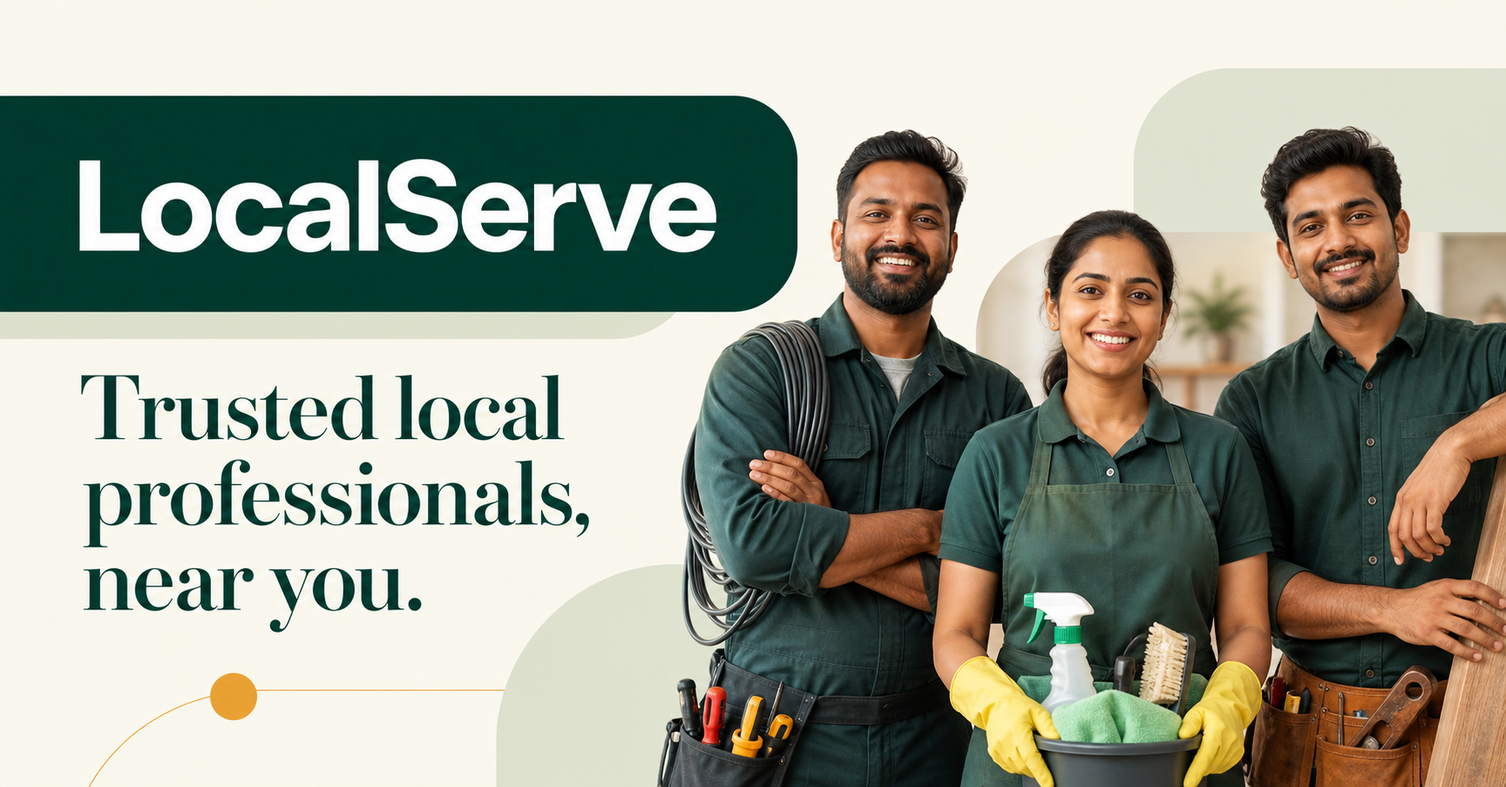
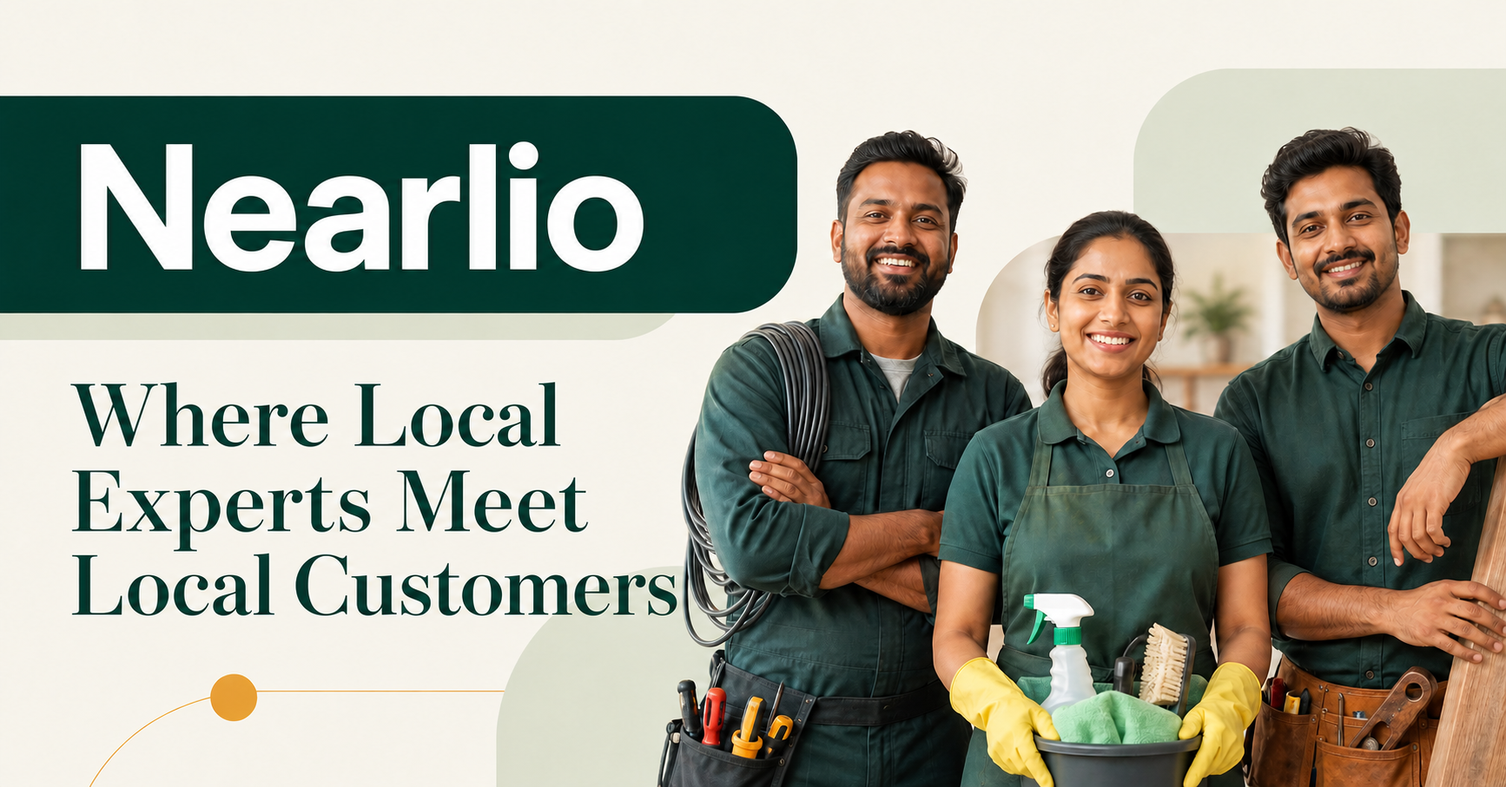
Rebrand LocalServe as Nearlio

diff --git a/app/localserve-app.tsx b/app/localserve-app.tsx
@@ -37,7 +37,7 @@ const categoryIcons:Record<string,string>={Plumber:"🔧",Electrician:"⚡",Carp
 const categories = [...serviceNames.map(name => [categoryIcons[name]||"🛠", name, "Browse service"]), ["⋯", "All services", "Explore categories"]];
 const featuredCategories = [...categories.slice(0,11), categories[categories.length-1]];
 
-export default function LocalServeApp() {
+export default function NearlioApp() {
   const [view, setView] = useState<View>("home");
   const [query, setQuery] = useState("");
   const [radius, setRadius] = useState(20);
@@ -108,7 +108,7 @@ export default function LocalServeApp() {
   return (
     <div className="app-shell">
       <header className="topbar">
-        <button className="brand" onClick={() => setView("home")} aria-label="LocalServe home"><span className="brand-mark">L</span><span>Local<span>Serve</span></span></button>
+        <button className="brand" onClick={() => setView("home")} aria-label="Nearlio home"><span className="brand-mark">N</span><span>Near<span>lio</span></span></button>
         <nav className="desktop-nav" aria-label="Main navigation">
           <button className={view === "home" ? "active" : ""} onClick={() => setView("home")}>Home</button>
           <button className={view === "search" ? "active" : ""} onClick={() => goSearch()}>Find services</button>
@@ -165,11 +165,11 @@ export default function LocalServeApp() {
         {view === "dashboard" && currentUser && <ProviderDashboard role={role} user={currentUser} onAction={notify} onRequest={openRequest} onSetup={()=>setModal("profile")} onView={()=>setModal("profile-view")} />}
       </main>
 
-      <footer><div className="footer-brand"><div className="brand"><span className="brand-mark">L</span><span>Local<span>Serve</span></span></div><p>Trusted local services, one tap away.</p><small className="powered-by">Powered by <b>Lumier Technologies</b></small></div><div><b>Customers</b><a>Find services</a><a>Post a request</a><a>Safety</a></div><div><b>Professionals</b><a>Join LocalServe</a><a>Plans & pricing</a><a>Provider help</a></div><div><b>Company</b><a>About</a><a>Contact</a><a>Privacy & terms</a></div><div className="footer-bottom">© 2026 LocalServe. Made for local communities. <span>Powered by Lumier Technologies · English · हिन्दी · മലയാളം</span></div></footer>
+      <footer><div className="footer-brand"><div className="brand"><span className="brand-mark">N</span><span>Near<span>lio</span></span></div><p>Where Local Experts Meet Local Customers.</p><small className="powered-by">Powered by <b>Lumier Technologies</b></small></div><div><b>Customers</b><a>Find services</a><a>Post a request</a><a>Safety</a></div><div><b>Professionals</b><a>Join Nearlio</a><a>Plans & pricing</a><a>Provider help</a></div><div><b>Company</b><a>About</a><a>Contact</a><a>Privacy & terms</a></div><div className="footer-bottom">© 2026 Nearlio. Where Local Experts Meet Local Customers. <span>Powered by Lumier Technologies · English · हिन्दी · മലയാളം</span></div></footer>
 
       <nav className="mobile-nav" aria-label="Mobile navigation">{[["⌂","Home","home"],["⌕","Search","search"],["＋","Requests","requests"],["✉","Messages","messages"],["◉","Profile","dashboard"]].map(([icon,label,id]) => <button className={view===id ? "active" : ""} onClick={() => (["requests","messages","dashboard"].includes(id) ? openProtected(id as View) : setView(id as View))} key={id}><span>{icon}</span>{label}</button>)}</nav>
       {selected && !modal && <ProviderDrawer provider={selected} saved={saved.includes(selected.id)} onClose={() => setSelected(null)} onBook={() => setModal("booking")} onSave={() => setSaved(s => s.includes(selected.id) ? s.filter(x=>x!==selected.id) : [...s,selected.id])} />}
-      {modal && <AppModal type={modal} provider={selected} user={currentUser} customerLocation={customerLocation} onLocationSaved={saveCustomerLocation} onClose={() => {setModal(null);setPostAuthAction(null)}} onAuthenticated={(user) => {setCurrentUser(user);setRole(user.role);notify(`Welcome, ${user.fullName.split(" ")[0]}!`);if(postAuthAction==="request"){setModal("request")}else{setModal(null);setView(postAuthAction||"dashboard")}setPostAuthAction(null)}} onProfileSaved={(user) => {setCurrentUser(user);setRole("provider");setModal(null);refreshProviders();notify("Profile submitted for LocalServe verification.");setView("dashboard")}} onSuccess={(msg) => {setModal(null); notify(msg); if(modal!=="auth")setView("requests")}} />}
+      {modal && <AppModal type={modal} provider={selected} user={currentUser} customerLocation={customerLocation} onLocationSaved={saveCustomerLocation} onClose={() => {setModal(null);setPostAuthAction(null)}} onAuthenticated={(user) => {setCurrentUser(user);setRole(user.role);notify(`Welcome, ${user.fullName.split(" ")[0]}!`);if(postAuthAction==="request"){setModal("request")}else{setModal(null);setView(postAuthAction||"dashboard")}setPostAuthAction(null)}} onProfileSaved={(user) => {setCurrentUser(user);setRole("provider");setModal(null);refreshProviders();notify("Profile submitted for Nearlio verification.");setView("dashboard")}} onSuccess={(msg) => {setModal(null); notify(msg); if(modal!=="auth")setView("requests")}} />}
       {toast && <div className="toast" role="status">✓ {toast}</div>}
     </div>
   );
@@ -196,7 +196,7 @@ function RequestsView({onPost}:{onPost:()=>void}) {
 
 
 
-function ProviderDrawer({provider:p,saved,onClose,onBook,onSave}:{provider:Provider;saved:boolean;onClose:()=>void;onBook:()=>void;onSave:()=>void}) { return <div className="overlay" onMouseDown={e=>{if(e.target===e.currentTarget)onClose()}}><aside className="provider-drawer"><button className="modal-close" onClick={onClose}>×</button><div className="drawer-cover"><img src={p.cover} alt={`${p.business} portfolio`}/></div><div className="drawer-content"><div className="profile-main"><div className="avatar large">{p.image}</div><div><h2>{p.business} <span className="verified">✓</span></h2><p>{p.name} · {p.service}</p><span className="status-pill green">AVAILABLE TODAY</span></div></div><div className="profile-stats"><div><b>★ {p.rating}</b><span>{p.reviews} reviews</span></div><div><b>{p.jobs}</b><span>Jobs done</span></div><div><b>{p.experience} yrs</b><span>Experience</span></div><div><b>{p.distance!==null?`${p.distance} km`:"Set location"}</b><span>Distance</span></div></div><h3>About</h3><p>{p.description} Serving homes and businesses across {p.locality}. Every job includes clear estimates, tidy workmanship and a service guarantee.</p><div className="tags"><span>English</span><span>हिन्दी</span><span>മലയാളം</span><span>Home visit</span><span>UPI accepted</span></div><h3>Popular services</h3><div className="service-price"><span><b>Inspection & diagnosis</b><small>30–45 minutes</small></span><b>₹{p.price}</b></div><div className="service-price"><span><b>Standard service visit</b><small>Materials charged separately</small></span><b>From ₹799</b></div><h3>Recent work</h3><div className="portfolio-row"><img src={p.cover} alt="Recent project"/><img src="https://images.unsplash.com/photo-1503387762-592deb58ef4e?auto=format&fit=crop&w=500&q=80" alt="Completed project"/></div><div className="drawer-actions"><button onClick={onSave}>{saved?"♥ Saved":"♡ Save"}</button>{p.whatsapp&&<a className="whatsapp-btn" href={whatsappUrl(p.whatsapp,`Hello ${p.name}, I found your ${p.service} profile on LocalServe.`)} target="_blank" rel="noreferrer">WhatsApp</a>}<button className="primary-btn" onClick={onBook}>Book service</button></div></div></aside></div> }
+function ProviderDrawer({provider:p,saved,onClose,onBook,onSave}:{provider:Provider;saved:boolean;onClose:()=>void;onBook:()=>void;onSave:()=>void}) { return <div className="overlay" onMouseDown={e=>{if(e.target===e.currentTarget)onClose()}}><aside className="provider-drawer"><button className="modal-close" onClick={onClose}>×</button><div className="drawer-cover"><img src={p.cover} alt={`${p.business} portfolio`}/></div><div className="drawer-content"><div className="profile-main"><div className="avatar large">{p.image}</div><div><h2>{p.business} <span className="verified">✓</span></h2><p>{p.name} · {p.service}</p><span className="status-pill green">AVAILABLE TODAY</span></div></div><div className="profile-stats"><div><b>★ {p.rating}</b><span>{p.reviews} reviews</span></div><div><b>{p.jobs}</b><span>Jobs done</span></div><div><b>{p.experience} yrs</b><span>Experience</span></div><div><b>{p.distance!==null?`${p.distance} km`:"Set location"}</b><span>Distance</span></div></div><h3>About</h3><p>{p.description} Serving homes and businesses across {p.locality}. Every job includes clear estimates, tidy workmanship and a service guarantee.</p><div className="tags"><span>English</span><span>हिन्दी</span><span>മലയാളം</span><span>Home visit</span><span>UPI accepted</span></div><h3>Popular services</h3><div className="service-price"><span><b>Inspection & diagnosis</b><small>30–45 minutes</small></span><b>₹{p.price}</b></div><div className="service-price"><span><b>Standard service visit</b><small>Materials charged separately</small></span><b>From ₹799</b></div><h3>Recent work</h3><div className="portfolio-row"><img src={p.cover} alt="Recent project"/><img src="https://images.unsplash.com/photo-1503387762-592deb58ef4e?auto=format&fit=crop&w=500&q=80" alt="Completed project"/></div><div className="drawer-actions"><button onClick={onSave}>{saved?"♥ Saved":"♡ Save"}</button>{p.whatsapp&&<a className="whatsapp-btn" href={whatsappUrl(p.whatsapp,`Hello ${p.name}, I found your ${p.service} profile on Nearlio.`)} target="_blank" rel="noreferrer">WhatsApp</a>}<button className="primary-btn" onClick={onBook}>Book service</button></div></div></aside></div> }
 
 function AppModal({type,provider,user,customerLocation,onLocationSaved,onClose,onSuccess,onAuthenticated,onProfileSaved}:{type:string;provider:Provider|null;user:SessionUser|null;customerLocation:MapLocation|null;onLocationSaved:(location:MapLocation)=>void;onClose:()=>void;onSuccess:(m:string)=>void;onAuthenticated:(u:SessionUser)=>void;onProfileSaved:(u:SessionUser)=>void}) {
   const [step,setStep]=useState(1);
@@ -232,7 +232,7 @@ function AuthForm({onAuthenticated}:{onAuthenticated:(user:SessionUser)=>void}) 
     } catch (problem) { setError(problem instanceof Error?problem.message:"Unable to continue"); }
     finally { setBusy(false); }
   }
-  return <form onSubmit={submitAuth} className="auth-form"><span className="kicker">WELCOME TO LOCALSERVE</span><h2>{mode==="login"?"Sign in to your account":"Create your LocalServe account"}</h2><p className="muted">{mode==="login"?"Manage bookings, quotes and messages securely.":"Join as a customer or start receiving nearby service enquiries."}</p><div className="auth-tabs"><button type="button" className={mode==="login"?"active":""} onClick={()=>{setMode("login");setError("")}}>Sign in</button><button type="button" className={mode==="register"?"active":""} onClick={()=>{setMode("register");setError("")}}>Create account</button></div>{mode==="register"&&<><label>Full name<input name="fullName" required minLength={2} autoComplete="name" placeholder="Your full name"/></label><div className="form-row"><label>Email address<input name="email" required type="email" autoComplete="email" placeholder="you@example.com"/></label><label>Mobile number<input name="phone" required type="tel" pattern="[0-9 +()-]{10,18}" autoComplete="tel" placeholder="10-digit number"/></label></div><label>I want to join as<select name="role" defaultValue="customer"><option value="customer">Customer — book services</option><option value="provider">Service professional — receive work</option></select></label></>}{mode==="login"&&<label>Email or mobile number<input name="identifier" required autoComplete="username" placeholder="Email or mobile number"/></label>}<label>Password<input name="password" required type="password" minLength={8} autoComplete={mode==="login"?"current-password":"new-password"} placeholder="At least 8 characters"/></label>{mode==="register"&&<p className="password-hint">Use uppercase, lowercase and at least one number.</p>}{error&&<div className="auth-error" role="alert">{error}</div>}<button type="submit" className="primary-btn wide" disabled={busy}>{busy?"Please wait…":mode==="login"?"Sign in securely":"Create account"}</button><p className="legal">By continuing, you agree to our Terms and Privacy Policy. Your password is securely hashed and never stored as plain text.</p></form>
+  return <form onSubmit={submitAuth} className="auth-form"><span className="kicker">WELCOME TO NEARLIO</span><h2>{mode==="login"?"Sign in to your account":"Create your Nearlio account"}</h2><p className="muted">{mode==="login"?"Manage bookings, quotes and messages securely.":"Join as a customer or start receiving nearby service enquiries."}</p><div className="auth-tabs"><button type="button" className={mode==="login"?"active":""} onClick={()=>{setMode("login");setError("")}}>Sign in</button><button type="button" className={mode==="register"?"active":""} onClick={()=>{setMode("register");setError("")}}>Create account</button></div>{mode==="register"&&<><label>Full name<input name="fullName" required minLength={2} autoComplete="name" placeholder="Your full name"/></label><div className="form-row"><label>Email address<input name="email" required type="email" autoComplete="email" placeholder="you@example.com"/></label><label>Mobile number<input name="phone" required type="tel" pattern="[0-9 +()-]{10,18}" autoComplete="tel" placeholder="10-digit number"/></label></div><label>I want to join as<select name="role" defaultValue="customer"><option value="customer">Customer — book services</option><option value="provider">Service professional — receive work</option></select></label></>}{mode==="login"&&<label>Email or mobile number<input name="identifier" required autoComplete="username" placeholder="Email or mobile number"/></label>}<label>Password<input name="password" required type="password" minLength={8} autoComplete={mode==="login"?"current-password":"new-password"} placeholder="At least 8 characters"/></label>{mode==="register"&&<p className="password-hint">Use uppercase, lowercase and at least one number.</p>}{error&&<div className="auth-error" role="alert">{error}</div>}<button type="submit" className="primary-btn wide" disabled={busy}>{busy?"Please wait…":mode==="login"?"Sign in securely":"Create account"}</button><p className="legal">By continuing, you agree to our Terms and Privacy Policy. Your password is securely hashed and never stored as plain text.</p></form>
 }
 
 function CleanMessagesView({onFind}:{onFind:()=>void}) {
@@ -249,7 +249,7 @@ function CleanDashboard({role,user,onAction,onRequest}:{role:SessionUser["role"]
   const description = role === "provider"
     ? "New enquiries and confirmed jobs will appear here."
     : role === "admin"
-      ? "Platform activity will appear here as customers and professionals begin using LocalServe."
+      ? "Platform activity will appear here as customers and professionals begin using Nearlio."
       : "Your service requests, quotations and bookings will appear here.";
   const prompt = role === "provider"
     ? ["Complete your professional profile","Add your services, coverage area and availability to start receiving enquiries."]
@@ -262,7 +262,7 @@ function CleanDashboard({role,user,onAction,onRequest}:{role:SessionUser["role"]
 function ProviderEnquiryCard({item,onReplied}:{item:ServiceRequest;onReplied:(id:string)=>void}) {
   const [message,setMessage]=useState("");const [busy,setBusy]=useState(false);const [error,setError]=useState("");const [sent,setSent]=useState(false);
   async function reply(event:FormEvent<HTMLFormElement>){event.preventDefault();setBusy(true);setError("");try{const response=await fetch(`/api/provider/requests/${item._id}/respond`,{method:"POST",headers:{"content-type":"application/json"},credentials:"include",body:JSON.stringify({message})});const result=await response.json();if(!response.ok)throw new Error(result.error||"Unable to send reply");setMessage("");setSent(true);onReplied(item._id)}catch(problem){setError(problem instanceof Error?problem.message:"Unable to send reply")}finally{setBusy(false)}}
-  return <article className="provider-enquiry-card"><div><span className={`status-pill ${item.urgency==="Emergency"?"red":"amber"}`}>{item.urgency||"Flexible"}</span><h3>{item.service} request</h3><p>{item.description}</p></div><dl><div><dt>Customer</dt><dd>{item.customerName||"LocalServe customer"}</dd></div><div><dt>Location</dt><dd>{item.address}</dd></div><div><dt>Preferred</dt><dd>{item.preferredDate} · {item.preferredTime}</dd></div><div><dt>Request</dt><dd>{item.requestNumber}</dd></div></dl><form className="provider-reply-form" onSubmit={reply}><label>Reply to customer<textarea value={message} onChange={event=>setMessage(event.target.value)} minLength={3} required placeholder="Introduce yourself, confirm availability, or share an estimate…"/></label>{error&&<div className="auth-error">{error}</div>}{sent&&<div className="reply-sent">✓ Reply sent and saved</div>}<div><button className="primary-btn" disabled={busy}>{busy?"Sending…":"Send reply"}</button>{item.whatsappNumber&&<a className="whatsapp-btn" href={whatsappUrl(item.whatsappNumber,`Hello ${item.customerName||"there"}, I am responding to your ${item.service} request ${item.requestNumber} on LocalServe.`)} target="_blank" rel="noreferrer">WhatsApp customer</a>}</div></form></article>;
+  return <article className="provider-enquiry-card"><div><span className={`status-pill ${item.urgency==="Emergency"?"red":"amber"}`}>{item.urgency||"Flexible"}</span><h3>{item.service} request</h3><p>{item.description}</p></div><dl><div><dt>Customer</dt><dd>{item.customerName||"Nearlio customer"}</dd></div><div><dt>Location</dt><dd>{item.address}</dd></div><div><dt>Preferred</dt><dd>{item.preferredDate} · {item.preferredTime}</dd></div><div><dt>Request</dt><dd>{item.requestNumber}</dd></div></dl><form className="provider-reply-form" onSubmit={reply}><label>Reply to customer<textarea value={message} onChange={event=>setMessage(event.target.value)} minLength={3} required placeholder="Introduce yourself, confirm availability, or share an estimate…"/></label>{error&&<div className="auth-error">{error}</div>}{sent&&<div className="reply-sent">✓ Reply sent and saved</div>}<div><button className="primary-btn" disabled={busy}>{busy?"Sending…":"Send reply"}</button>{item.whatsappNumber&&<a className="whatsapp-btn" href={whatsappUrl(item.whatsappNumber,`Hello ${item.customerName||"there"}, I am responding to your ${item.service} request ${item.requestNumber} on Nearlio.`)} target="_blank" rel="noreferrer">WhatsApp customer</a>}</div></form></article>;
 }
 
 function ProviderDashboard({role,user,onAction,onRequest,onSetup,onView}:{role:SessionUser["role"];user:SessionUser;onAction:(s:string)=>void;onRequest:()=>void;onSetup:()=>void;onView:()=>void}) {
@@ -311,7 +311,7 @@ function ProviderProfileForm({user,onSaved}:{user:SessionUser;onSaved:(user:Sess
     finally { setBusy(false); }
   }
   if(loading) return <div className="profile-loading">Loading your profile…</div>;
-  return <form className="provider-profile-form" onSubmit={save}><span className="kicker">PROFESSIONAL PROFILE</span><h2>{profile?._id?"Update your profile":"Set up your profile"}</h2><p className="muted">Your profile and identity documents are reviewed by LocalServe before customers can see you.</p>{profile?.verificationStatus&&<div className={`verification-banner ${profile.verificationStatus}`}><b>{profile.verificationStatus==="approved"?"✓ Verified":profile.verificationStatus==="rejected"?"Changes required":"Verification pending"}</b><span>{profile.verificationStatus==="rejected"?(profile.rejectionReason||"Update the requested details and resubmit."):profile.verificationStatus==="approved"?"Your public profile is active.":"A LocalServe admin will review your submission."}</span></div>}<label>Your name<input value={user.fullName} disabled/></label><label>Business or professional name<input name="businessName" required minLength={2} maxLength={100} defaultValue={profile?.businessName||""} placeholder="Example: Jiji Electrical Services"/></label><div className="form-row"><label>Main service<select name="service" required defaultValue={profile?.service||""}><option value="" disabled>Select service</option>{categories.slice(0,-1).map(item=><option key={item[1]} value={item[1]}>{item[1]}</option>)}</select></label><label>Years of experience<input name="experienceYears" required type="number" min="0" max="60" defaultValue={profile?.experienceYears??0}/></label></div><div className="form-row"><label>Starting price (₹)<input name="startingPrice" required type="number" min="0" max="1000000" defaultValue={profile?.startingPrice??299}/></label><label>Phone number<input name="phone" required type="tel" minLength={10} maxLength={24} defaultValue={profile?.phone||""} placeholder="Contact number"/></label></div><label>Service area<input name="locality" required minLength={2} maxLength={100} defaultValue={profile?.locality||"Kochi, Kerala"} placeholder="Area, city"/></label><div className="profile-location"><div className="profile-location-head"><b>Service location on map</b><span>Customers only see the distance, not your exact coordinates.</span></div><LocationPicker value={serviceLocation} onChange={setServiceLocation}/><input type="hidden" name="latitude" value={serviceLocation?.latitude??""}/><input type="hidden" name="longitude" value={serviceLocation?.longitude??""}/>{!serviceLocation&&<small className="location-required">Use mobile location or choose a point on the map.</small>}</div><label>About your services<textarea name="description" required minLength={30} maxLength={800} defaultValue={profile?.description||""} placeholder="Describe your skills, typical jobs and what customers can expect."/></label><div className="identity-upload-grid"><label>Profile photo {profile?.profilePhotoId&&<small>Current photo saved</small>}<input name="profilePhoto" type="file" accept="image/jpeg,image/png,image/webp" required={!profile?.profilePhotoId}/><em>Clear face photo · JPG, PNG or WebP · max 4 MB</em></label><label>ID card — front {profile?.idCardFrontId&&<small>Current ID saved</small>}<input name="idCardFront" type="file" accept="image/jpeg,image/png,image/webp" required={!profile?.idCardFrontId}/><em>Government-issued identity card · max 4 MB</em></label><label>ID card — back (optional) {profile?.idCardBackId&&<small>Current image saved</small>}<input name="idCardBack" type="file" accept="image/jpeg,image/png,image/webp"/><em>Upload if your ID contains details on both sides</em></label></div><div className="privacy-note"><b>🔒 Private identity verification</b><span>ID images are never shown publicly. Only authorised LocalServe administrators can review them.</span></div><div className="profile-checks"><label><input name="available" type="checkbox" defaultChecked={profile?.available??true}/> Available for new work</label><label><input name="emergency" type="checkbox" defaultChecked={profile?.emergency??false}/> Emergency service offered</label></div>{error&&<div className="auth-error" role="alert">{error}</div>}<button className="primary-btn wide" type="submit" disabled={busy}>{busy?"Submitting…":profile?._id?"Save and resubmit for verification":"Submit for verification"}</button></form>;
+  return <form className="provider-profile-form" onSubmit={save}><span className="kicker">PROFESSIONAL PROFILE</span><h2>{profile?._id?"Update your profile":"Set up your profile"}</h2><p className="muted">Your profile and identity documents are reviewed by Nearlio before customers can see you.</p>{profile?.verificationStatus&&<div className={`verification-banner ${profile.verificationStatus}`}><b>{profile.verificationStatus==="approved"?"✓ Verified":profile.verificationStatus==="rejected"?"Changes required":"Verification pending"}</b><span>{profile.verificationStatus==="rejected"?(profile.rejectionReason||"Update the requested details and resubmit."):profile.verificationStatus==="approved"?"Your public profile is active.":"A Nearlio admin will review your submission."}</span></div>}<label>Your name<input value={user.fullName} disabled/></label><label>Business or professional name<input name="businessName" required minLength={2} maxLength={100} defaultValue={profile?.businessName||""} placeholder="Example: Jiji Electrical Services"/></label><div className="form-row"><label>Main service<select name="service" required defaultValue={profile?.service||""}><option value="" disabled>Select service</option>{categories.slice(0,-1).map(item=><option key={item[1]} value={item[1]}>{item[1]}</option>)}</select></label><label>Years of experience<input name="experienceYears" required type="number" min="0" max="60" defaultValue={profile?.experienceYears??0}/></label></div><div className="form-row"><label>Starting price (₹)<input name="startingPrice" required type="number" min="0" max="1000000" defaultValue={profile?.startingPrice??299}/></label><label>Phone number<input name="phone" required type="tel" minLength={10} maxLength={24} defaultValue={profile?.phone||""} placeholder="Contact number"/></label></div><label>Service area<input name="locality" required minLength={2} maxLength={100} defaultValue={profile?.locality||"Kochi, Kerala"} placeholder="Area, city"/></label><div className="profile-location"><div className="profile-location-head"><b>Service location on map</b><span>Customers only see the distance, not your exact coordinates.</span></div><LocationPicker value={serviceLocation} onChange={setServiceLocation}/><input type="hidden" name="latitude" value={serviceLocation?.latitude??""}/><input type="hidden" name="longitude" value={serviceLocation?.longitude??""}/>{!serviceLocation&&<small className="location-required">Use mobile location or choose a point on the map.</small>}</div><label>About your services<textarea name="description" required minLength={30} maxLength={800} defaultValue={profile?.description||""} placeholder="Describe your skills, typical jobs and what customers can expect."/></label><div className="identity-upload-grid"><label>Profile photo {profile?.profilePhotoId&&<small>Current photo saved</small>}<input name="profilePhoto" type="file" accept="image/jpeg,image/png,image/webp" required={!profile?.profilePhotoId}/><em>Clear face photo · JPG, PNG or WebP · max 4 MB</em></label><label>ID card — front {profile?.idCardFrontId&&<small>Current ID saved</small>}<input name="idCardFront" type="file" accept="image/jpeg,image/png,image/webp" required={!profile?.idCardFrontId}/><em>Government-issued identity card · max 4 MB</em></label><label>ID card — back (optional) {profile?.idCardBackId&&<small>Current image saved</small>}<input name="idCardBack" type="file" accept="image/jpeg,image/png,image/webp"/><em>Upload if your ID contains details on both sides</em></label></div><div className="privacy-note"><b>🔒 Private identity verification</b><span>ID images are never shown publicly. Only authorised Nearlio administrators can review them.</span></div><div className="profile-checks"><label><input name="available" type="checkbox" defaultChecked={profile?.available??true}/> Available for new work</label><label><input name="emergency" type="checkbox" defaultChecked={profile?.emergency??false}/> Emergency service offered</label></div>{error&&<div className="auth-error" role="alert">{error}</div>}<button className="primary-btn wide" type="submit" disabled={busy}>{busy?"Submitting…":profile?._id?"Save and resubmit for verification":"Submit for verification"}</button></form>;
 }
 
 function CustomerLocationForm({initial,onSaved}:{initial:MapLocation|null;onSaved:(location:MapLocation)=>void}) {

diff --git a/app/admin/admin-portal.tsx b/app/admin/admin-portal.tsx
@@ -20,7 +20,7 @@ export default function AdminPortal() {
   const visible=useMemo(()=>filter==="all"?submissions:submissions.filter(item=>(item.verificationStatus||item.status)===filter),[submissions,filter]);
   const counts={pending:submissions.filter(x=>(x.verificationStatus||x.status)==="pending").length,approved:submissions.filter(x=>x.verificationStatus==="approved").length,rejected:submissions.filter(x=>x.verificationStatus==="rejected").length};
 
-  if(!admin)return <main className="admin-login-page"><section className="admin-login-card"><div className="admin-brand"><span>L</span><div><b>LocalServe</b><small>ADMINISTRATION</small></div></div><span className="kicker">RESTRICTED ACCESS</span><h1>Admin sign in</h1><p>Review provider identity documents and control who is published on LocalServe.</p><form onSubmit={login}><label>Admin email<input name="email" type="email" required autoComplete="username"/></label><label>Password<input name="password" type="password" required autoComplete="current-password"/></label>{error&&<div className="auth-error">{error}</div>}<button className="primary-btn wide" disabled={busy==="login"}>{busy?"Signing in…":"Sign in to admin portal"}</button></form><a href="/">← Return to LocalServe</a></section></main>;
+  if(!admin)return <main className="admin-login-page"><section className="admin-login-card"><div className="admin-brand"><span>N</span><div><b>Nearlio</b><small>ADMINISTRATION</small></div></div><span className="kicker">RESTRICTED ACCESS</span><h1>Admin sign in</h1><p>Review provider identity documents and control who is published on Nearlio.</p><form onSubmit={login}><label>Admin email<input name="email" type="email" required autoComplete="username"/></label><label>Password<input name="password" type="password" required autoComplete="current-password"/></label>{error&&<div className="auth-error">{error}</div>}<button className="primary-btn wide" disabled={busy==="login"}>{busy?"Signing in…":"Sign in to admin portal"}</button></form><a href="/">← Return to Nearlio</a></section></main>;
 
-  return <div className="admin-shell"><header className="admin-header"><div className="admin-brand"><span>L</span><div><b>LocalServe</b><small>ADMINISTRATION</small></div></div><div><span>{admin.email}</span><button onClick={logout}>Sign out</button></div></header><main className="admin-main"><div className="admin-title"><div><span className="kicker">TRUST & SAFETY</span><h1>Provider verification</h1><p>Approve only when the profile photo, identity card and account details match.</p></div><button onClick={loadSubmissions}>↻ Refresh</button></div><section className="admin-stats"><button className={filter==="pending"?"active":""} onClick={()=>setFilter("pending")}><b>{counts.pending}</b><span>Pending review</span></button><button className={filter==="approved"?"active":""} onClick={()=>setFilter("approved")}><b>{counts.approved}</b><span>Approved</span></button><button className={filter==="rejected"?"active":""} onClick={()=>setFilter("rejected")}><b>{counts.rejected}</b><span>Rejected</span></button><button className={filter==="all"?"active":""} onClick={()=>setFilter("all")}><b>{submissions.length}</b><span>All submissions</span></button></section>{error&&<div className="admin-error">{error}</div>}{loading?<div className="admin-empty">Loading provider submissions…</div>:visible.length===0?<div className="admin-empty"><b>No {filter==="all"?"provider":filter} submissions</b><span>New profile verification requests will appear here.</span></div>:<div className="admin-review-list">{visible.map(item=><article className="admin-review-card" key={item._id}><div className="admin-provider-summary"><img src={`/api/admin/providers/${item._id}/document?side=photo`} alt={`${item.name} profile`}/><div><span className={`admin-status ${item.verificationStatus||item.status}`}>{item.verificationStatus||item.status}</span><h2>{item.businessName}</h2><p>{item.name} · {item.service}</p><small>{item.locality} · {item.experienceYears} years · From ₹{item.startingPrice}</small></div></div><div className="admin-details"><div><span>Phone</span><b>{item.phone}</b></div><div><span>Availability</span><b>{item.available?"Available":"Unavailable"}{item.emergency?" · Emergency":""}</b></div><div className="wide"><span>About</span><p>{item.description}</p></div></div><div className="admin-documents"><a href={`/api/admin/providers/${item._id}/document?side=front`} target="_blank" rel="noreferrer">View ID front ↗</a>{item.idCardBackId&&<a href={`/api/admin/providers/${item._id}/document?side=back`} target="_blank" rel="noreferrer">View ID back ↗</a>}<a href={`/api/admin/providers/${item._id}/document?side=photo`} target="_blank" rel="noreferrer">View profile photo ↗</a></div>{item.rejectionReason&&<div className="rejection-box"><b>Previous rejection reason</b><span>{item.rejectionReason}</span></div>}<div className="admin-review-actions"><button className="reject" disabled={busy===item._id} onClick={()=>review(item._id,"reject")}>Reject with reason</button><button className="approve" disabled={busy===item._id} onClick={()=>review(item._id,"approve")}>✓ Approve and publish</button></div></article>)}</div>}</main></div>;
+  return <div className="admin-shell"><header className="admin-header"><div className="admin-brand"><span>N</span><div><b>Nearlio</b><small>ADMINISTRATION</small></div></div><div><span>{admin.email}</span><button onClick={logout}>Sign out</button></div></header><main className="admin-main"><div className="admin-title"><div><span className="kicker">TRUST & SAFETY</span><h1>Provider verification</h1><p>Approve only when the profile photo, identity card and account details match.</p></div><button onClick={loadSubmissions}>↻ Refresh</button></div><section className="admin-stats"><button className={filter==="pending"?"active":""} onClick={()=>setFilter("pending")}><b>{counts.pending}</b><span>Pending review</span></button><button className={filter==="approved"?"active":""} onClick={()=>setFilter("approved")}><b>{counts.approved}</b><span>Approved</span></button><button className={filter==="rejected"?"active":""} onClick={()=>setFilter("rejected")}><b>{counts.rejected}</b><span>Rejected</span></button><button className={filter==="all"?"active":""} onClick={()=>setFilter("all")}><b>{submissions.length}</b><span>All submissions</span></button></section>{error&&<div className="admin-error">{error}</div>}{loading?<div className="admin-empty">Loading provider submissions…</div>:visible.length===0?<div className="admin-empty"><b>No {filter==="all"?"provider":filter} submissions</b><span>New profile verification requests will appear here.</span></div>:<div className="admin-review-list">{visible.map(item=><article className="admin-review-card" key={item._id}><div className="admin-provider-summary"><img src={`/api/admin/providers/${item._id}/document?side=photo`} alt={`${item.name} profile`}/><div><span className={`admin-status ${item.verificationStatus||item.status}`}>{item.verificationStatus||item.status}</span><h2>{item.businessName}</h2><p>{item.name} · {item.service}</p><small>{item.locality} · {item.experienceYears} years · From ₹{item.startingPrice}</small></div></div><div className="admin-details"><div><span>Phone</span><b>{item.phone}</b></div><div><span>Availability</span><b>{item.available?"Available":"Unavailable"}{item.emergency?" · Emergency":""}</b></div><div className="wide"><span>About</span><p>{item.description}</p></div></div><div className="admin-documents"><a href={`/api/admin/providers/${item._id}/document?side=front`} target="_blank" rel="noreferrer">View ID front ↗</a>{item.idCardBackId&&<a href={`/api/admin/providers/${item._id}/document?side=back`} target="_blank" rel="noreferrer">View ID back ↗</a>}<a href={`/api/admin/providers/${item._id}/document?side=photo`} target="_blank" rel="noreferrer">View profile photo ↗</a></div>{item.rejectionReason&&<div className="rejection-box"><b>Previous rejection reason</b><span>{item.rejectionReason}</span></div>}<div className="admin-review-actions"><button className="reject" disabled={busy===item._id} onClick={()=>review(item._id,"reject")}>Reject with reason</button><button className="approve" disabled={busy===item._id} onClick={()=>review(item._id,"approve")}>✓ Approve and publish</button></div></article>)}</div>}</main></div>;
 }

diff --git a/app/layout.tsx b/app/layout.tsx
@@ -8,14 +8,14 @@ export async function generateMetadata(): Promise<Metadata> {
   const host = incoming.get("host") ?? "localhost:3000";
   const protocol = incoming.get("x-forwarded-proto") ?? (host.startsWith("localhost") ? "http" : "https");
   const base = new URL(`${protocol}://${host}`);
-  const description = "Find, compare and book verified local service professionals with transparent pricing and trusted reviews.";
+  const description = "Where Local Experts Meet Local Customers.";
   return {
     metadataBase: base,
-    title: "LocalServe — Trusted local professionals near you",
+    title: "Nearlio – Where Local Experts Meet Local Customers",
     description,
     icons: { icon: "/favicon.svg", shortcut: "/favicon.svg" },
-    openGraph: { title: "LocalServe", description, type: "website", images: [{ url: new URL("/og.png", base).toString(), width: 1734, height: 907, alt: "LocalServe — trusted local professionals near you" }] },
-    twitter: { card: "summary_large_image", title: "LocalServe", description, images: [new URL("/og.png", base).toString()] },
+    openGraph: { title: "Nearlio", description, type: "website", images: [{ url: new URL("/og.png", base).toString(), width: 1734, height: 907, alt: "Nearlio – Where Local Experts Meet Local Customers" }] },
+    twitter: { card: "summary_large_image", title: "Nearlio", description, images: [new URL("/og.png", base).toString()] },
   };
 }
 

diff --git a/app/api/location/search/route.ts b/app/api/location/search/route.ts
@@ -24,7 +24,7 @@ export async function GET(request: Request) {
     url.searchParams.set("limit", "5");
     url.searchParams.set("countrycodes", "in");
     url.searchParams.set("addressdetails", "1");
-    const response = await fetch(url, { headers: { "user-agent": "LocalServe/1.0 (https://localserviecses.vercel.app)", "accept-language": "en-IN,en;q=0.9" }, next: { revalidate: 2_592_000 } });
+    const response = await fetch(url, { headers: { "user-agent": "Nearlio/1.0 (https://localserviecses.vercel.app)", "accept-language": "en-IN,en;q=0.9" }, next: { revalidate: 2_592_000 } });
     if (!response.ok) throw new Error("Location search is temporarily unavailable");
     const rows = await response.json() as Array<Record<string, unknown>>;
     const results = rows.map(row => ({ label: String(row.display_name ?? "Selected location").slice(0, 180), latitude: Number(row.lat), longitude: Number(row.lon) })).filter(row => Number.isFinite(row.latitude) && Number.isFinite(row.longitude));

diff --git a/app/api/admin/login/route.ts b/app/api/admin/login/route.ts
@@ -12,7 +12,7 @@ export async function POST(request: Request) {
     const configuredHash = process.env.ADMIN_PASSWORD_HASH;
     if (!configuredEmail || !configuredHash) return Response.json({ error: "Admin access is not configured" }, { status: 503 });
     if (email !== configuredEmail || !(await verifyPassword(password, configuredHash))) return Response.json({ error: "Invalid admin credentials" }, { status: 401 });
-    const user: SessionUser = { id: ADMIN_ID, fullName: "LocalServe Admin", email: configuredEmail, role: "admin" };
+    const user: SessionUser = { id: ADMIN_ID, fullName: "Nearlio Admin", email: configuredEmail, role: "admin" };
     await createSession(user);
     return Response.json({ user });
   } catch { return Response.json({ error: "Unable to sign in" }, { status: 500 }); }

diff --git a/app/admin/page.tsx b/app/admin/page.tsx
@@ -1,6 +1,6 @@
 import AdminPortal from "./admin-portal";
 
-export const metadata = { title: "LocalServe Admin" };
+export const metadata = { title: "Nearlio Admin" };
 export const dynamic = "force-dynamic";
 
 export default function AdminPage() { return <AdminPortal/>; }

diff --git a/app/page.tsx b/app/page.tsx
@@ -1,5 +1,5 @@
-import LocalServeApp from "./localserve-app";
+import NearlioApp from "./localserve-app";
 
 export default function Home() {
-  return <LocalServeApp />;
+  return <NearlioApp />;
 }

diff --git a/README.md b/README.md
@@ -1,6 +1,8 @@
-# LocalServe
+# Nearlio
 
-LocalServe is a responsive marketplace for discovering, comparing and booking nearby service professionals. This first production-shaped release includes customer discovery, provider profiles, filters, saved providers, service requests, quotations, booking status, messaging, multilingual UI foundations and customer/provider/admin dashboards.
+**Where Local Experts Meet Local Customers**
+
+Nearlio is a responsive marketplace for discovering, comparing and booking nearby service professionals. This first production-shaped release includes customer discovery, provider profiles, filters, saved providers, service requests, quotations, booking status, messaging, multilingual UI foundations and customer/provider/admin dashboards.
 
 ## Local development
 
